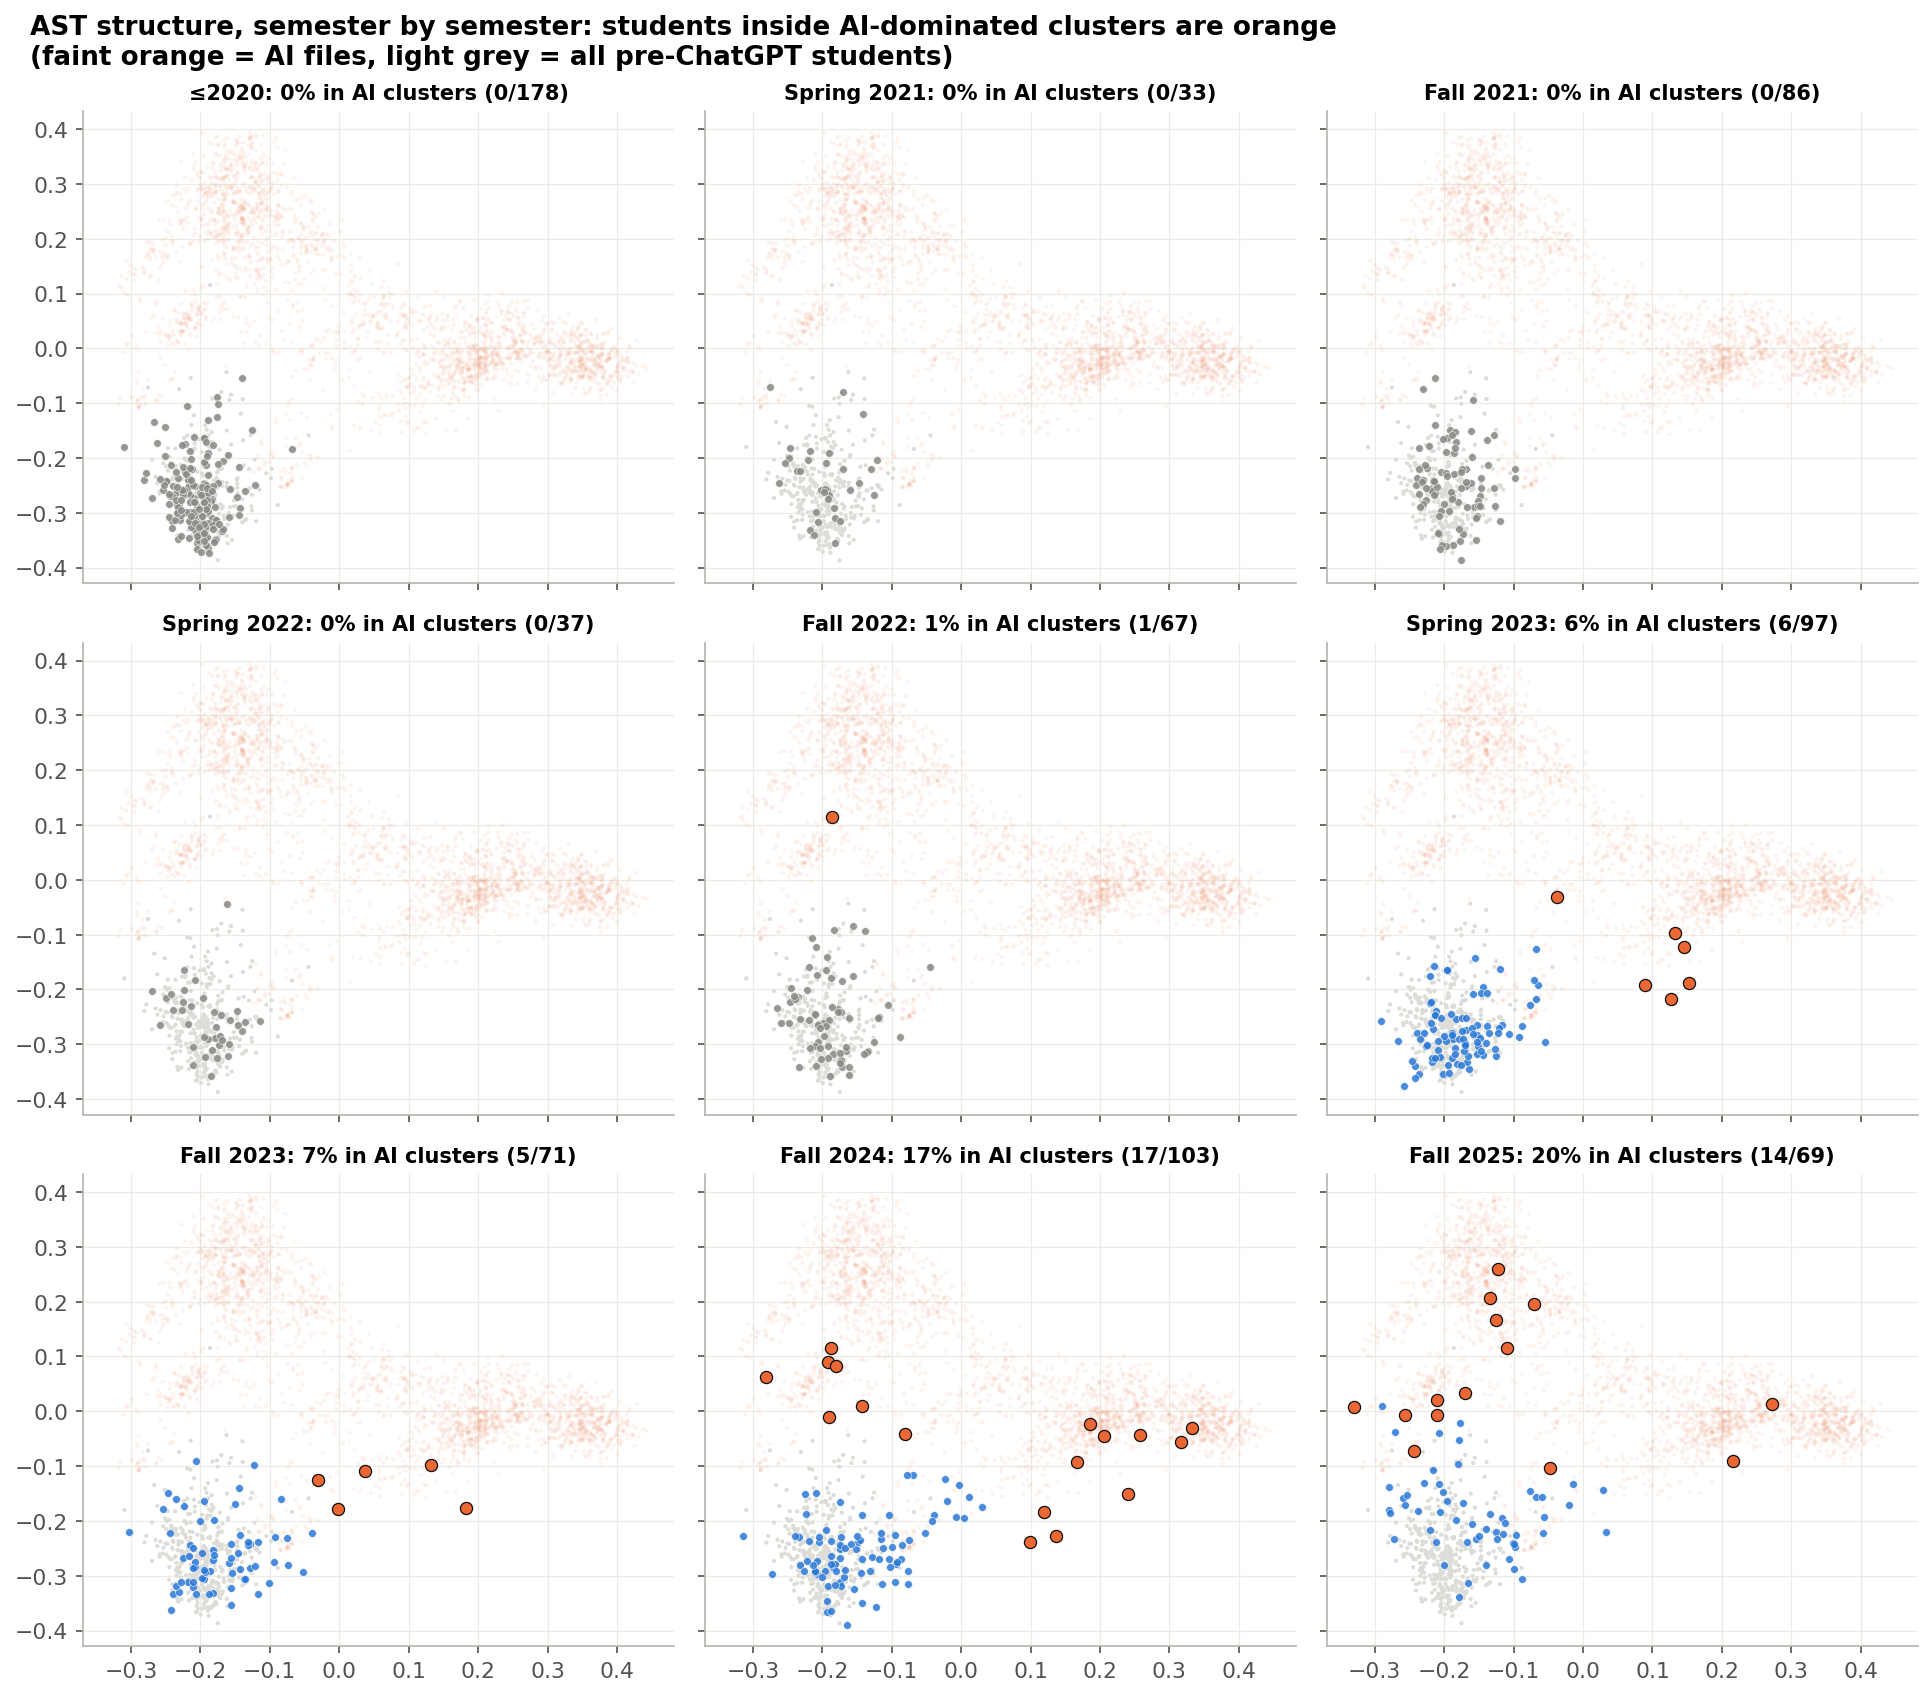
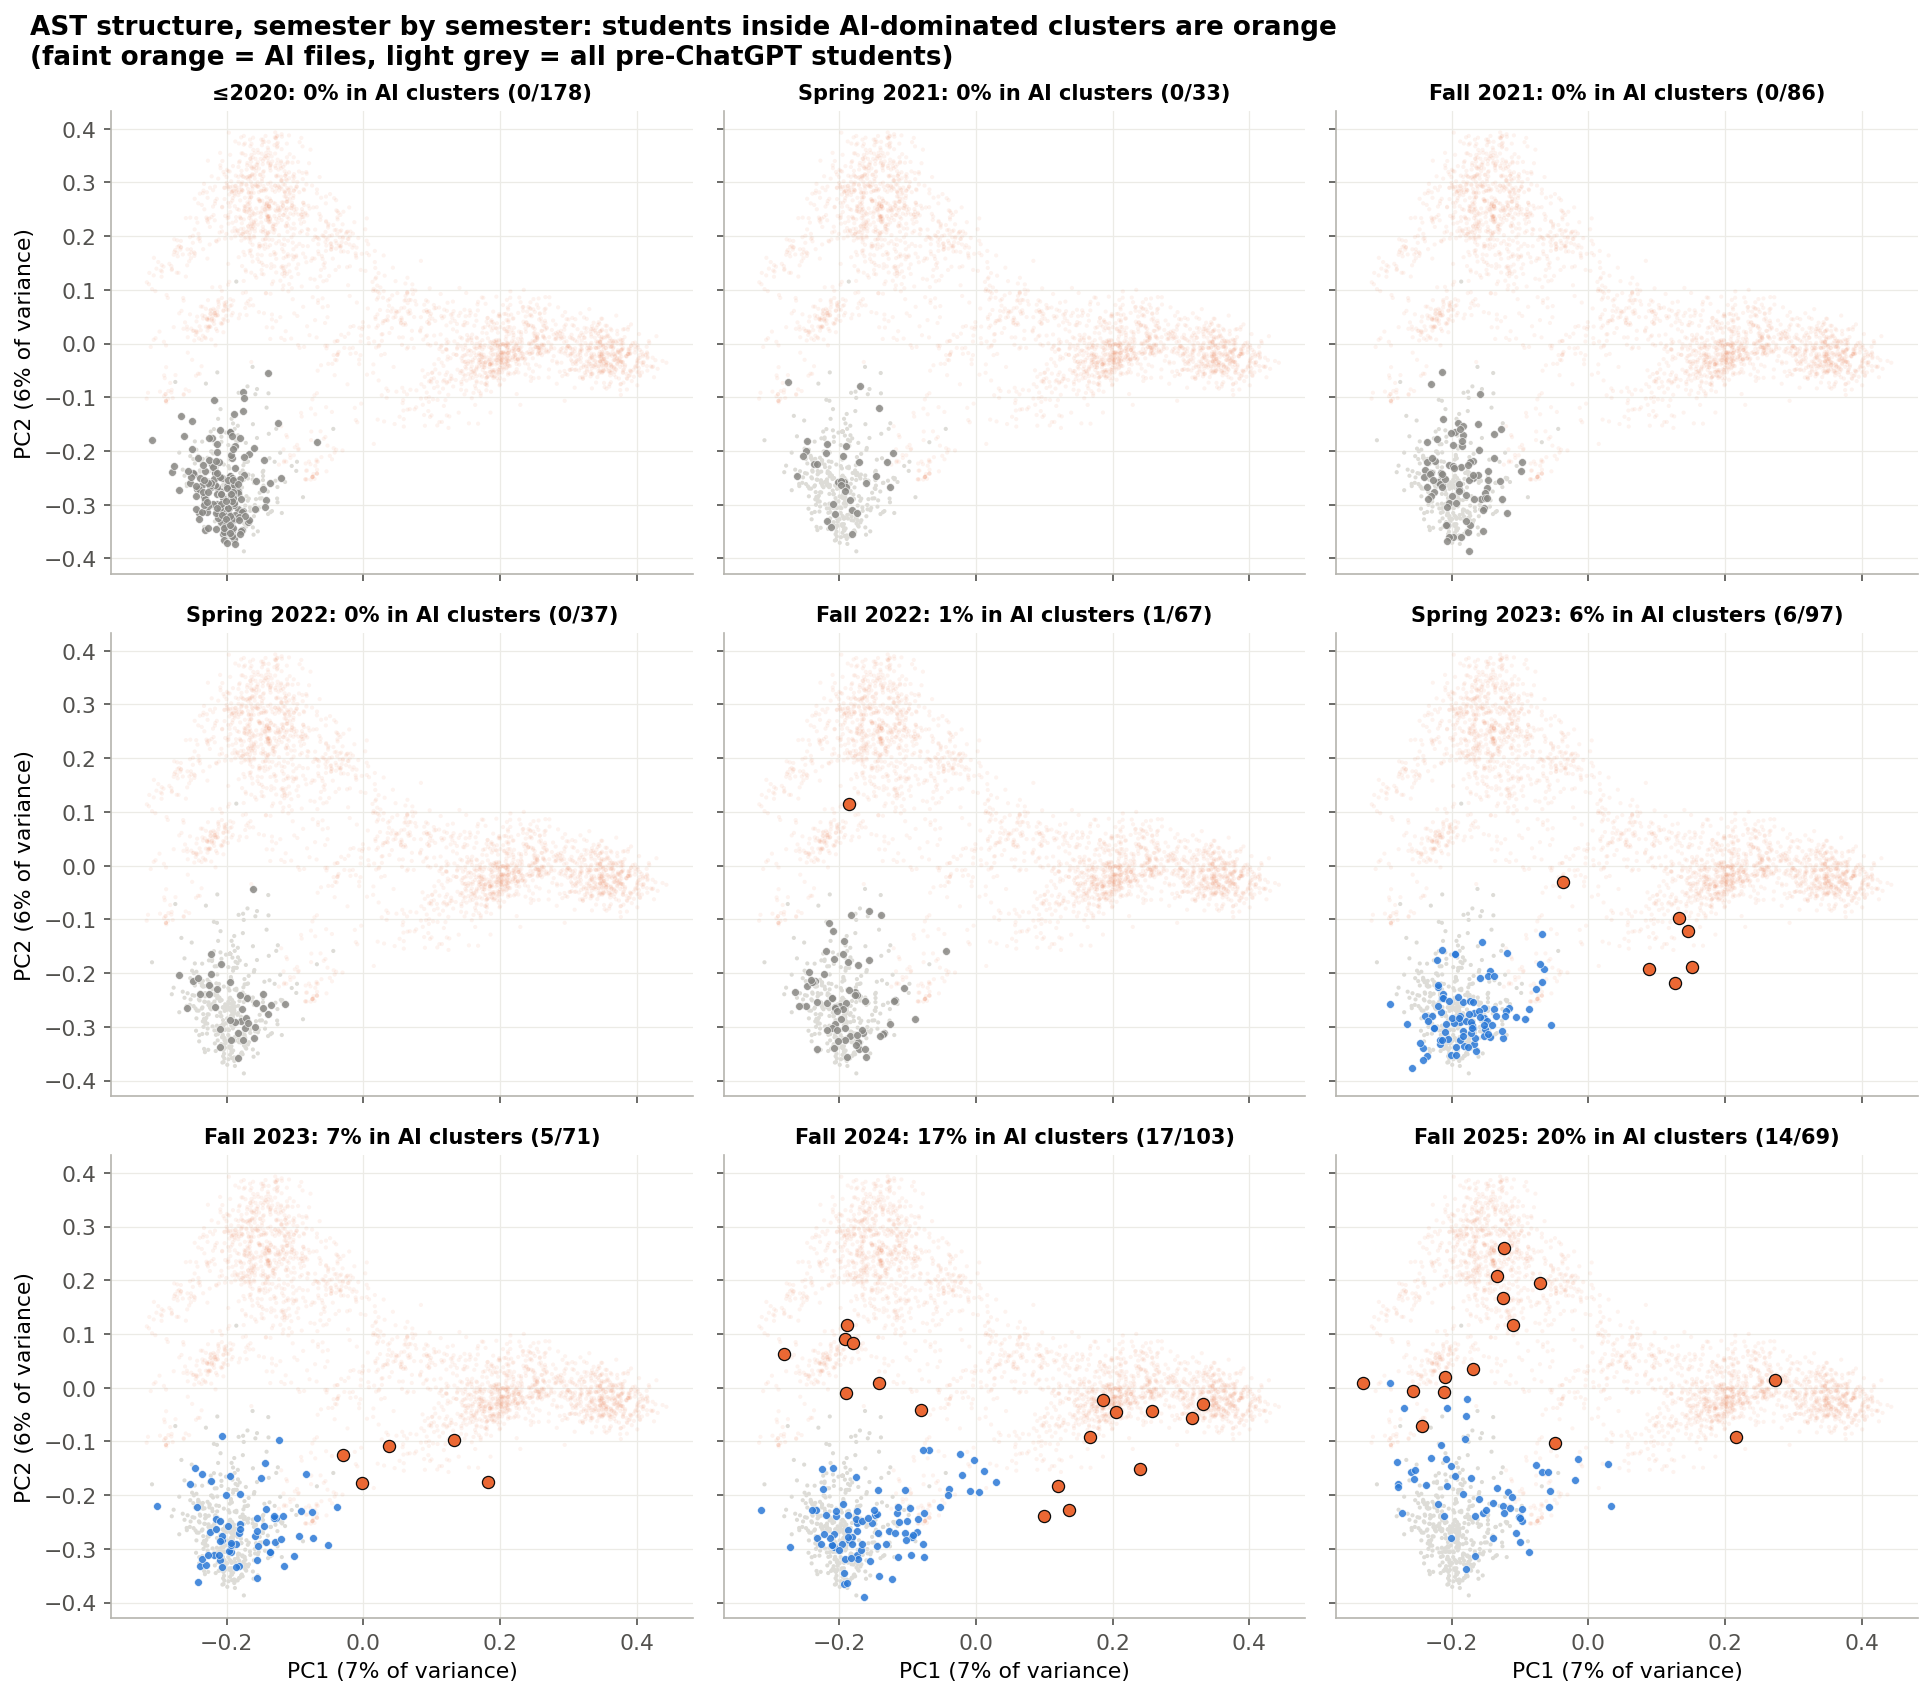
Fix chart labels and add a slide-sized timeline
Timeline: x-axis labels on the top panel, corrected pre-ChatGPT count (1 in 401),
no negative percentage ticks, plus a large-type version for slides. Per-semester
PCA maps now carry axis titles.

diff --git a/semester_charts.py b/semester_charts.py
@@ -78,18 +78,22 @@ for s in SEMS:
 tl = pd.DataFrame(rows, columns=["sem", "k", "n", "pct", "lo", "hi", "sim", "sim_ci"])
 story["timeline"] = tl.round(3).to_dict(orient="records")
 
-fig, (ax1, ax2) = plt.subplots(2, 1, figsize=(12, 8.2), sharex=True, gridspec_kw={"height_ratios": [1.35, 1], "hspace": 0.12})
+fig, (ax1, ax2) = plt.subplots(2, 1, figsize=(12, 8.2), sharex=True, gridspec_kw={"height_ratios": [1.35, 1], "hspace": 0.28})
 xs = [DATES[s] for s in SEMS]
 cols = [SEM_COLOR[s] if s in POST else "#b9b8b2" for s in SEMS]
 for s, x, r in zip(SEMS, xs, tl.itertuples()):
     ax1.bar(x, r.pct, width=110, color=AI if s in POST else "#b9b8b2", zorder=3, edgecolor="white", lw=1.5)
     ax1.errorbar(x, r.pct, yerr=[[r.pct - r.lo], [r.hi - r.pct]], color=MUTED, lw=1, capsize=3, zorder=4)
     ax1.text(x, r.hi + 1.2, f"{r.pct:.0f}%", ha="center", fontsize=11, fontweight="bold", color=INK, zorder=5)
-    ax1.text(x, -2.6, f"{r.k}/{r.n}", ha="center", fontsize=7.5, color=MUTED)
+    ax1.text(x, -3.2, f"{r.k}/{r.n}", ha="center", fontsize=7.5, color=MUTED)
+    ax1.text(x, -6.2, LABELS[s].replace(" ", "\n"), ha="center", va="top", fontsize=8, color=INK)
 mark_releases(ax1)
-ax1.set_ylim(-4, 58)
+ax1.set_ylim(-13, 58)
+ax1.set_yticks(range(0, 60, 10))
+ax1.tick_params(labelbottom=True)
+ax1.axhline(0, color=MUTED, lw=0.8)
 ax1.set_ylabel("Submissions that look AI-written (%)")
-ax1.set_title("Roughly 1 in 5 Connect 4 submissions now looks AI-written. Before ChatGPT: none.", loc="left", fontsize=14)
+ax1.set_title("Roughly 1 in 5 Connect 4 submissions now looks AI-written. Before ChatGPT: 1 in 401.", loc="left", fontsize=14)
 fig.text(0.125, 0.035, "Top: share of each semester's submissions classified AI-like (ensemble classifier, 0.25% false-positive rate); "
          "95% Wilson intervals; flagged/total under each bar.\nBottom: mean similarity to AI code across six representations, "
          "95% CI. Shaded = after ChatGPT; dotted lines = model releases.", fontsize=8.5, color=MUTED, va="top")
@@ -104,6 +108,29 @@ date_axis(ax2)
 ax2.set_ylabel("Average similarity to AI code\n(SDs vs pre-ChatGPT students)")
 ax2.set_title("…and the average submission has drifted toward AI style the whole time", loc="left", fontsize=11.5)
 fig.savefig(FIG / "story_1_timeline.png")
+plt.close(fig)
+
+# Slide version: bars only, large type, three key releases labelled horizontally.
+fig, ax = plt.subplots(figsize=(11, 7))
+ax.axvspan(CHATGPT, date(2026, 3, 1), color="#f6f3ee", zorder=0, lw=0)
+for (d, name), y in zip([(CHATGPT, "ChatGPT launches"), (date(2024, 5, 13), "GPT-4o made free"),
+                         (date(2025, 8, 7), "GPT-5")], (54, 54, 47)):
+    ax.axvline(d, color=MUTED, lw=1.2, ls=":", zorder=1)
+    ax.text(d, y, f" {name}", fontsize=14, color=INK, va="center", ha="left" if name != "GPT-5" else "right")
+for s, x, r in zip(SEMS, xs, tl.itertuples()):
+    ax.bar(x, r.pct, width=110, color=AI if s in POST else "#b9b8b2", zorder=3, edgecolor="white", lw=1.5)
+    ax.errorbar(x, r.pct, yerr=[[r.pct - r.lo], [r.hi - r.pct]], color=MUTED, lw=1.2, capsize=4, zorder=4)
+    ax.text(x, r.hi + 1.5, f"{r.pct:.0f}%", ha="center", fontsize=18, fontweight="bold", color=INK, zorder=5)
+    ax.text(x, -3.5, f"{r.k}/{r.n}", ha="center", fontsize=12, color=MUTED)
+    ax.text(x, -7, LABELS[s].replace(" ", "\n"), ha="center", va="top", fontsize=13, color=INK)
+ax.axhline(0, color=MUTED, lw=0.8)
+ax.set_ylim(-15, 58)
+ax.set_yticks(range(0, 60, 10))
+ax.tick_params(labelsize=13)
+ax.set_ylabel("% of submissions that look AI-written", fontsize=15)
+date_axis(ax)
+ax.set_xticks([])
+fig.savefig(FIG / "story_1_timeline_slide.png")
 plt.close(fig)
 
 # ---------------- 2. Ridgeline of similarity distributions ----------------

diff --git a/per_embedding.py b/per_embedding.py
@@ -158,6 +158,10 @@ for rep, name in REPS.items():
         r = sem[s]
         axp.set_title(f"{LABELS[s]}: {r['cluster_pct']:.0f}% in AI clusters ({int(round(r['cluster_pct'] * r['n'] / 100))}/{r['n']})",
                       fontsize=10)
+    for axp in axes[-1]:
+        axp.set_xlabel(f"PC1 ({var[0]:.0%} of variance)")
+    for axp in axes[:, 0]:
+        axp.set_ylabel(f"PC2 ({var[1]:.0%} of variance)")
     fig.suptitle(f"{name}, semester by semester: students inside AI-dominated clusters are orange\n"
                  "(faint orange = AI files, light grey = all pre-ChatGPT students)", fontweight="bold", x=0.02, ha="left")
     fig.tight_layout()
